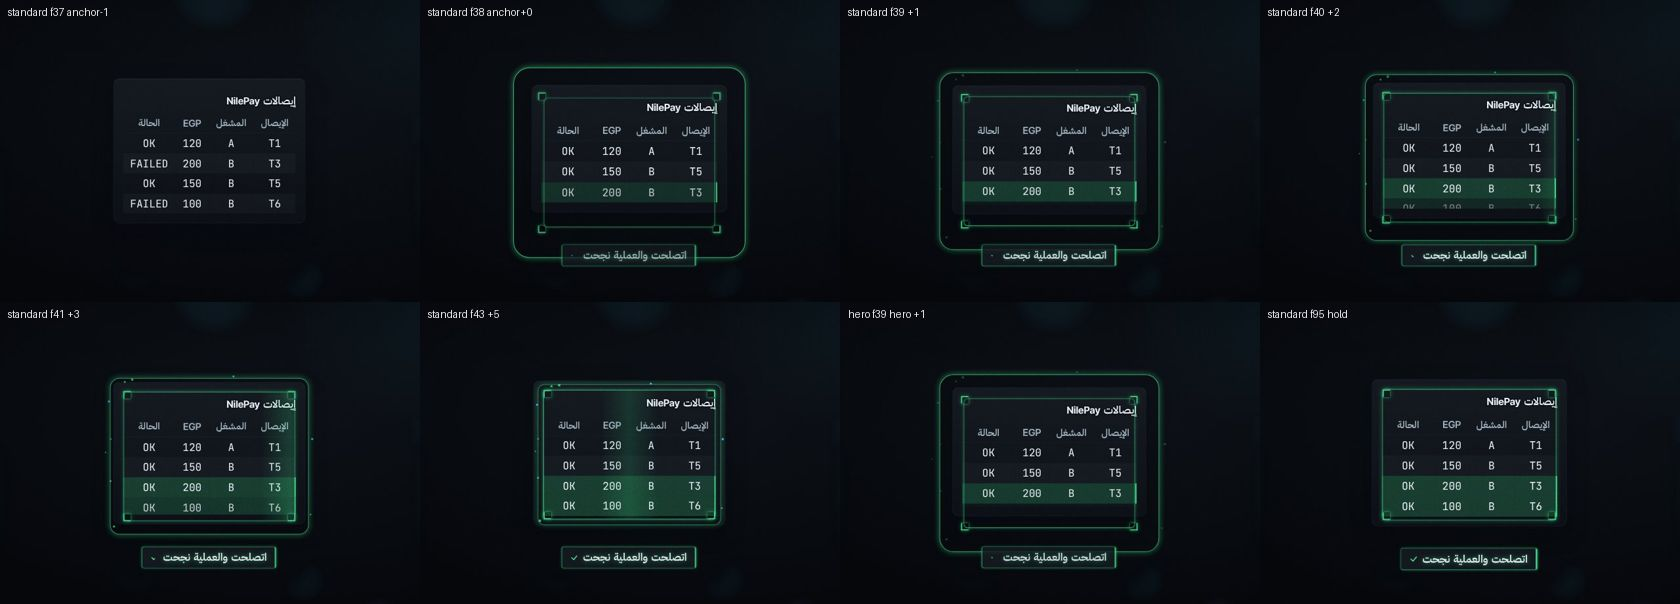
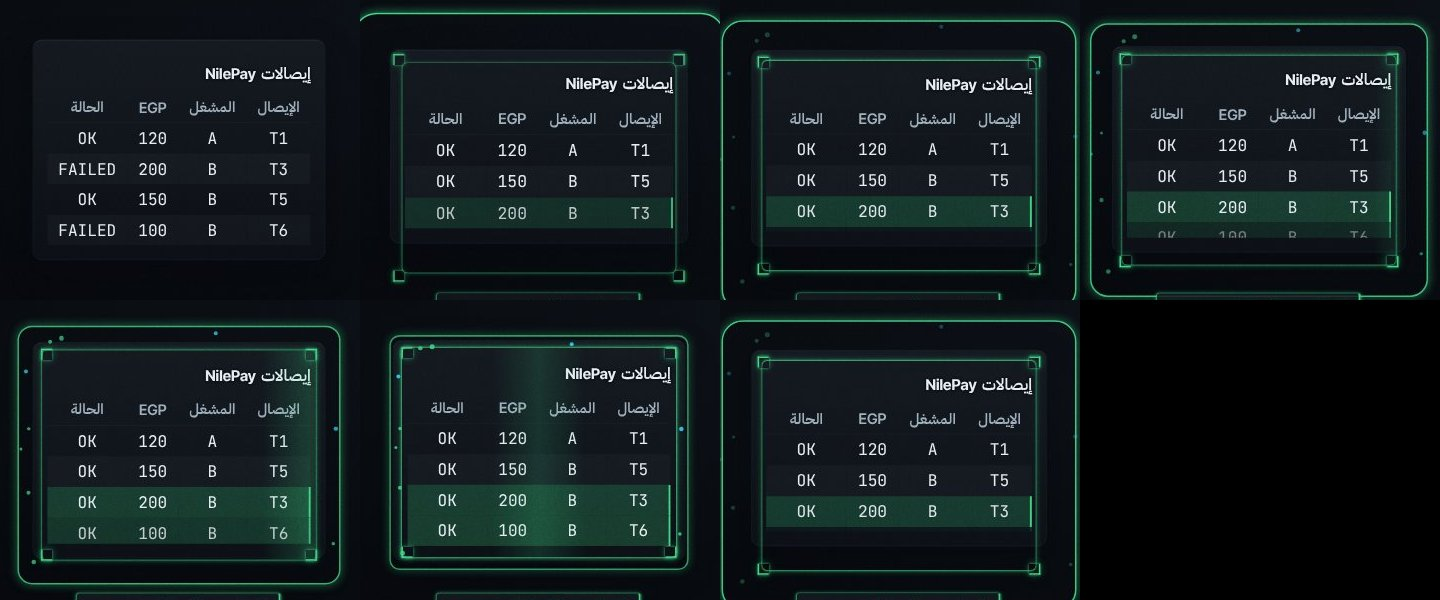
P7 FixSettle r3: rim and brackets padded 32 px (clear of the title hamza), ring 3 px, motes 6-10 px; standard/hero beat strip re-shot; snap PASS det 0, baselines pending-critic; perf lite 0.128 / standard 0.157 / hero 0.167 box s/frame; Arabic QA pass
Claude-Session: https://claude.ai/code/session_01VrU9wxU8GmuhdhWAAHnnQ8

diff --git a/studio/src/components/FixSettle/FixSettle.tsx b/studio/src/components/FixSettle/FixSettle.tsx
@@ -21,12 +21,13 @@ const SCALE_FROM = 1.03;
 const CLOSE_PX = 36;
 const REACH = 100; // px the converging ring starts outside the rim
 const MOTES = 10;
+const FRAME_PAD = 32; // rim + brackets sit this far outside the target's drawn leaves: clear of the title's hamza and the table copy
 
 type ReactFx = import('../../spec/types').LayerCtx['fx'];
 /** Converging ring + landing motes (see header). `u` = settle progress 0..1 (linear), `e` its ease-out. */
 const Converge: React.FC<{r: Rect; u: number; seed: string; fx: ReactFx}> = ({r, u, seed, fx}) => {
   const e = 1 - (1 - u) * (1 - u);
-  const R = pad(r, 12 + REACH * (1 - e));
+  const R = pad(r, FRAME_PAD + REACH * (1 - e));
   const a = 0.25 + 0.6 * (1 - u);
   const cx = r.x + r.w / 2;
   const cy = r.y + r.h / 2;
@@ -38,12 +39,12 @@ const Converge: React.FC<{r: Rect; u: number; seed: string; fx: ReactFx}> = ({r,
     const dy = Math.sin(ang);
     const edge = Math.min((r.w / 2 + 12) / Math.max(0.001, Math.abs(dx)), (r.h / 2 + 12) / Math.max(0.001, Math.abs(dy)));
     const d = edge + REACH * (0.5 + 0.8 * rnd(seed, 'md', i)) * (1 - e);
-    const sz = 4 + rnd(seed, 'ms', i) * 4;
+    const sz = 6 + rnd(seed, 'ms', i) * 4;
     motes.push(<div key={i} style={{position: 'absolute', left: cx + dx * d - sz / 2, top: cy + dy * d - sz / 2, width: sz, height: sz, borderRadius: sz, background: i % 4 ? C.ok : C.signal, opacity: Math.sin(Math.PI * Math.min(1, u * 1.05)) * 0.85}} />);
   }
   return (
     <>
-      <div style={{...abs(R), borderRadius: 10 + REACH * (1 - e) * 0.4, border: `2px solid ${C.ok}${hex(a)}`, boxShadow: fx.id === 'lite' ? undefined : `0 0 ${fx.glowPx * 0.6}px ${C.ok}${hex(a * 0.6)}`}} />
+      <div style={{...abs(R), borderRadius: 10 + REACH * (1 - e) * 0.4, border: `3px solid ${C.ok}${hex(Math.min(1, a + 0.15))}`, boxShadow: fx.id === 'lite' ? undefined : `0 0 ${fx.glowPx * 0.6}px ${C.ok}${hex(a * 0.6)}`}} />
       {motes}
     </>
   );
@@ -74,11 +75,11 @@ export const FixSettleView: React.FC<DcProps<Props>> = ({props, ctx}) => {
     <div ref={ref} style={{position: 'absolute', inset: 0, pointerEvents: 'none', opacity: k}}>
       {r && t >= 0 ? (
         <>
-          <div style={{...abs(pad(r, 18)), borderRadius: 10, boxShadow: lite ? `0 0 0 1px ${C.ok}${hex(0.5 * st.q)}` : `0 0 0 1px ${C.ok}${hex(0.5 * st.q)}, ${boxGlow(C.ok, ctx.fx, 0.5 * st.q)}`}} />
+          <div style={{...abs(pad(r, FRAME_PAD)), borderRadius: 10, boxShadow: lite ? `0 0 0 1px ${C.ok}${hex(0.5 * st.q)}` : `0 0 0 1px ${C.ok}${hex(0.5 * st.q)}, ${boxGlow(C.ok, ctx.fx, 0.5 * st.q)}`}} />
           {st.on ? <Converge r={r} u={Math.min(1, t / settleLen(ctx.fps))} seed={seed} fx={ctx.fx} /> : null}
-          <Brackets r={r} color={C.ok} fx={ctx.fx} opacity={Math.min(1, 0.4 + st.q)} spread={18 + CLOSE_PX * (1 - st.q)} />
+          <Brackets r={r} color={C.ok} fx={ctx.fx} opacity={Math.min(1, 0.4 + st.q)} spread={FRAME_PAD + CLOSE_PX * (1 - st.q)} />
           {sweepOn ? (
-            <div style={{...abs(pad(r, 18)), overflow: 'hidden', borderRadius: 10}}>
+            <div style={{...abs(pad(r, FRAME_PAD)), overflow: 'hidden', borderRadius: 10}}>
               <div
                 style={{
                   position: 'absolute',
